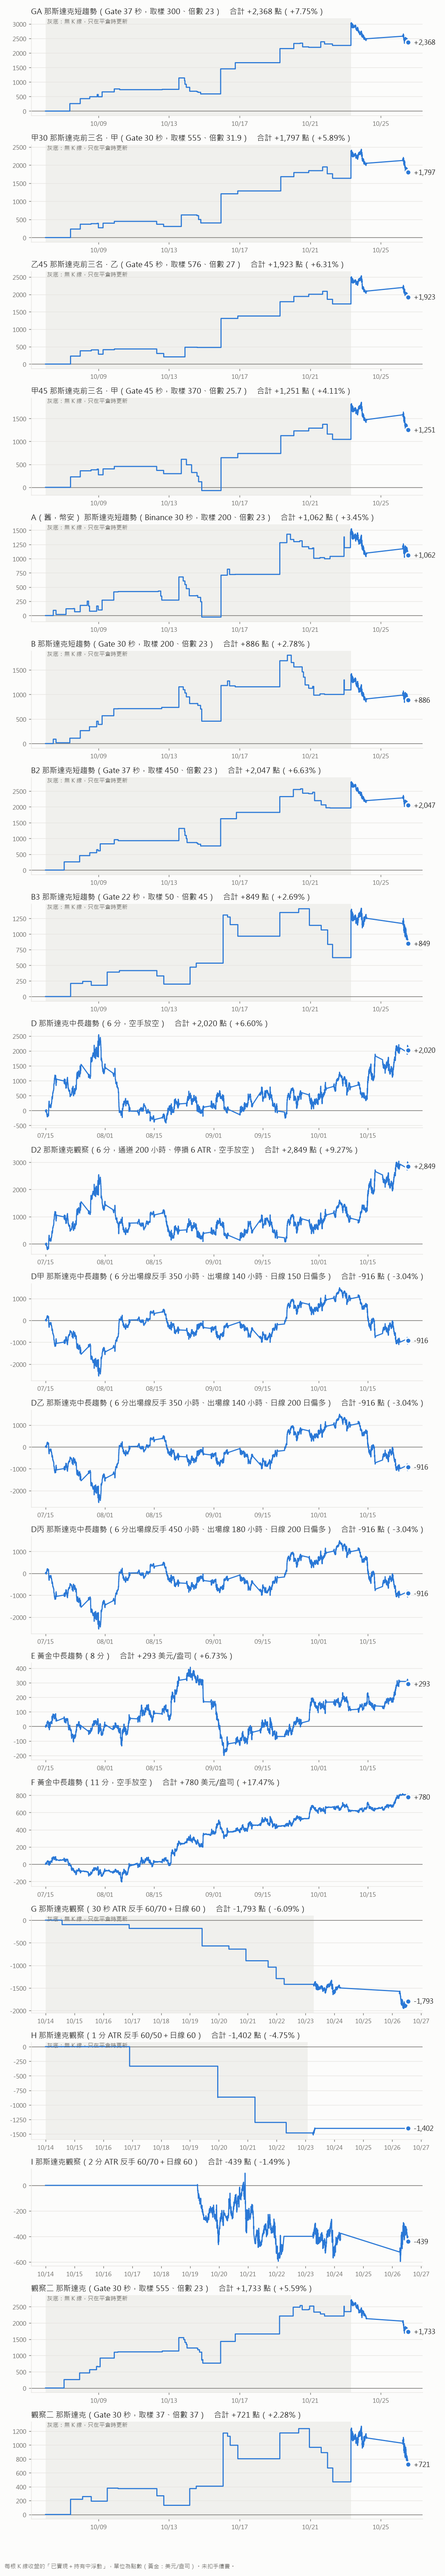
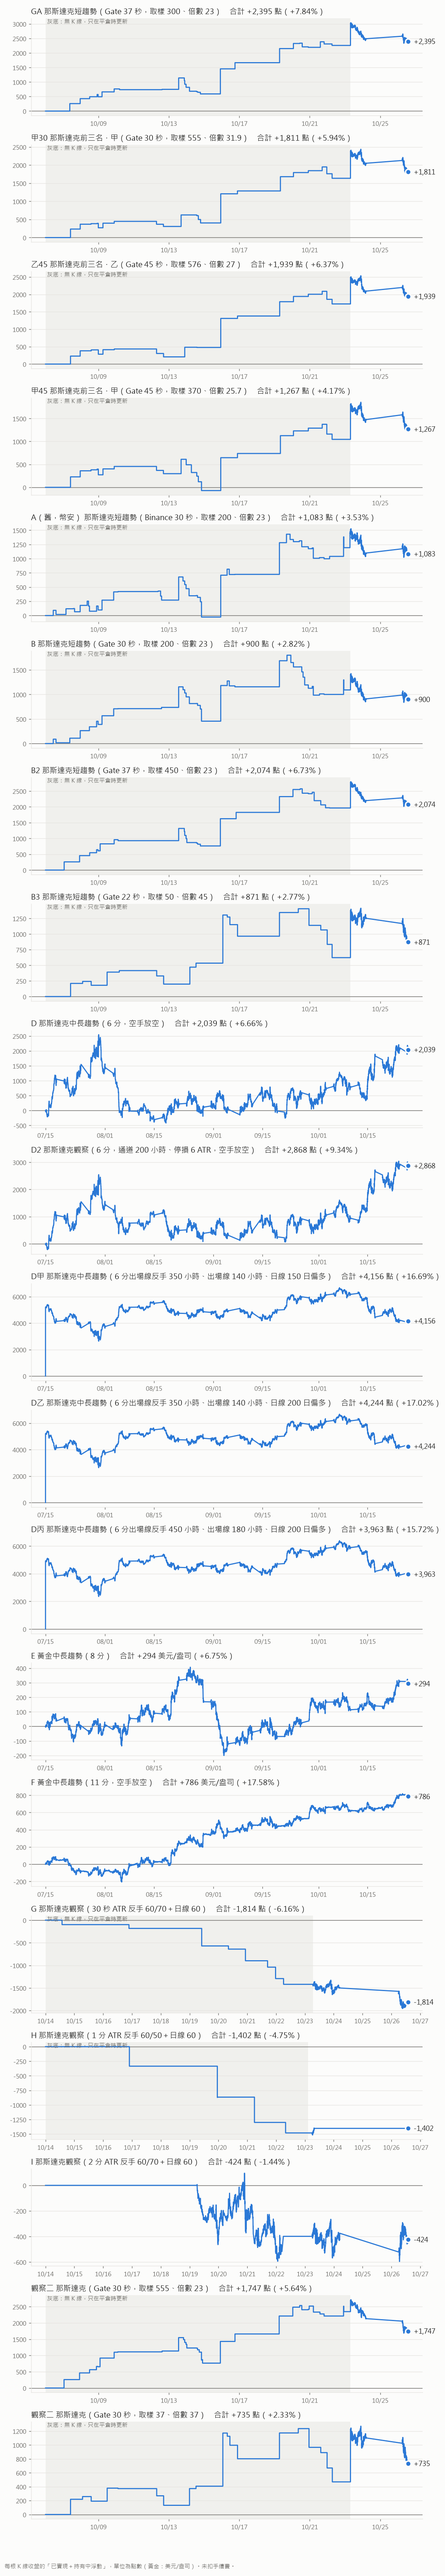
期貨趨勢 v1.29.2：D 甲乙丙日線改單一月份合約、起算改真正進場價
- 日線：連續月 NQ=F 沒有換月調整，150 日均線比 TV 低約 370 點，D 甲 10/23 TV 已翻空網頁還抱多。網頁（DAILY7）與更新紀錄.py 改用跟 6 分 K 同一個單一月份合約的日線，10/22 均線 29,197 對 TV 29,230；D 甲 10/23 06:00 @29,136 翻空與 TV 一字不差，D 乙、D 丙續抱多同 TV。G、H、I 仍用連續月。
- 起算持有：7/15 當天價 30,116 讓舊多單顯示假虧損，改用 TV 回測真正進場價（D 甲乙 4/06 @24,936、D 丙 4/08 @25,217），備註寫明。
- 紀錄補 D 甲 10/23 平多→開空 一筆（已平倉 +4,200 點，TV +4,201）。

diff --git a/index.html b/index.html
@@ -3,7 +3,7 @@
 <head>
 <meta charset="utf-8">
 <meta name="viewport" content="width=device-width,initial-scale=1,viewport-fit=cover">
-<title>期貨趨勢 v1.29.1</title>
+<title>期貨趨勢 v1.29.2</title>
 <meta name="description" content="那斯達克 30 秒 Range Filter（Binance 與 Gate）、那斯達克 6 分、黃金 8 分與黃金 11 分 Donchian 的即時趨勢訊號">
 <meta name="theme-color" content="#0b0e14">
 <meta name="apple-mobile-web-app-capable" content="yes">
@@ -226,7 +226,7 @@ canvas{display:block;width:100%;height:100%;touch-action:pan-y;cursor:crosshair}
 
 <script>
 "use strict";
-const VERSION = "v1.29.1";   // v1.29.1：電腦版單格放大對中長趨勢、台指、黃金、觀察二失效（被分頁判斷取消）；那斯達克同步拆成秒級與 6 分兩組，短趨勢縮放不再把中長趨勢壓成兩三天。v1.29.0：中長趨勢加 D 甲／乙／丙（規則 7 出場線反手＋日線偏多，永遠在場內），明細與績效表加三組（紀錄代號 DA／DB／DC，7/15 起算），電腦版改 5 欄 × 3 列（第 5 欄）。v1.28.1：Gate 逐筆請求排隊限速＋失敗等 11 秒重試（撞到每 10 秒 200 次限額，GA、B2、B3、前三名載不出來）；網頁標題補成同版號。v1.28.0：LINE 推播的格子（目前只有那斯達克 B2；台指 A/B 使用者說先不設，PANELS 標 push:true）外框內側加黃色細線閃爍。v1.27.0：GA 優化前三名（甲 30 秒 555/31.9、乙 45 秒 576/27、甲 45 秒 370/25.7）加成三格，電腦版改 4 欄 × 3 列（第 4 欄），商品名稱白字閃爍；明細與績效表加三組（紀錄代號 J30、Y45、J45，10/6 起算）；Gate 逐筆多合成 30、45 秒。v1.26.2： v1.26.2：舊幣安 A 加回交易明細與績效表（只讀正式紀錄）。v1.26.1：閃爍由 1.2 秒放慢成 2.4 秒、外框暗時亮度 15%→35%（使用者嫌刺眼）。
+const VERSION = "v1.29.2";   // v1.29.2：D 甲乙丙日線改用單一月份合約（對齊 TV 換月調整，D 甲 10/23 翻空），起算持有改用 TV 真正進場價。v1.29.1：電腦版單格放大對中長趨勢、台指、黃金、觀察二失效（被分頁判斷取消）；那斯達克同步拆成秒級與 6 分兩組，短趨勢縮放不再把中長趨勢壓成兩三天。v1.29.0：中長趨勢加 D 甲／乙／丙（規則 7 出場線反手＋日線偏多，永遠在場內），明細與績效表加三組（紀錄代號 DA／DB／DC，7/15 起算），電腦版改 5 欄 × 3 列（第 5 欄）。v1.28.1：Gate 逐筆請求排隊限速＋失敗等 11 秒重試（撞到每 10 秒 200 次限額，GA、B2、B3、前三名載不出來）；網頁標題補成同版號。v1.28.0：LINE 推播的格子（目前只有那斯達克 B2；台指 A/B 使用者說先不設，PANELS 標 push:true）外框內側加黃色細線閃爍。v1.27.0：GA 優化前三名（甲 30 秒 555/31.9、乙 45 秒 576/27、甲 45 秒 370/25.7）加成三格，電腦版改 4 欄 × 3 列（第 4 欄），商品名稱白字閃爍；明細與績效表加三組（紀錄代號 J30、Y45、J45，10/6 起算）；Gate 逐筆多合成 30、45 秒。v1.26.2： v1.26.2：舊幣安 A 加回交易明細與績效表（只讀正式紀錄）。v1.26.1：閃爍由 1.2 秒放慢成 2.4 秒、外框暗時亮度 15%→35%（使用者嫌刺眼）。
 //    // v1.26.0：A 格改 Gate 逐筆合成 37 秒 300/23（候選①），明細與績效表的 A 改讀紀錄代號 GA；畫面名稱改叫 GA；電腦版九格外框照部位閃爍（持多螢光紅、持空螢光綠、空手無框），取代 v1.25.1 的固定藍框。所有閃爍同步。v1.25.1：圖表標題 A 改回黃字不閃爍；B2、觀察二 555/23、D2 外框螢光藍細線閃爍。v1.25.0：電腦版（同一份程式，寬 1280px 以上或手動選「電腦」）：指定 9 格同一頁三欄三列、一樣大、不捲動；同市場格子同步顯示範圍（那斯達克、台指、恆生）；表格線螢光藍；持多／持空後面放合計（已平倉＋浮動）。v1.24.0：v1.23.6：圖表標題的觀察二 37/37 也改紅字閃爍；v1.23.5：圖表標題的 A、B2、D2、觀察二 555/23 改紅字閃爍；v1.23.4：績效表與明細的 A、B2、D2、觀察二 555/23 改紅字閃爍（只動透明度，不加光暈）；v1.23.3：明細的台指 A/B、觀察二台指拿掉閃爍；v1.23.2：台指四組從 10/21 起重新記錄觀察；v1.23.1：台指 A/B、觀察二可讀 台指/tv_hist.json 補 10/06 起的舊段明細；v1.23.0：台指四格用網頁自己的策略（參數不變）、資料只用 TradingView 台指期（1 秒 K 合成各格週期），不再照抄 848、不再讀期交所；v1.22.1：台指 K 線不再等期交所盤後檔，沒有連續月 30 秒時改用 TradingView 1 秒 K 合成；v1.22.0：台指 K 線改讀 TradingView 連續月 30 秒（轉接站 /tw，收到 200 根起生效，之前照舊）；v1.21.0：台指四組的持倉、明細、績效表改照 TradingView 848（連續月）交易清單（台指/tv_signals.json）；v1.20.4：台指換月窗恢復只看盤後（TX_HOLD_ROLL＝true）；v1.20.3：台指換月窗改即時優先；v1.20.2：明細視窗標題「交易明細」→「明細」；v1.20.1：標題列「中長趨勢」→「趨勢」、「交易明細」→「明細」；v1.20.0：交易明細加「績效表」分頁
 const $ = id => document.getElementById(id);
 const FAPI = "https://fapi.binance.com/fapi/v1";
@@ -425,7 +425,7 @@ function calcDon7(B, P){
     else if(r === 1){ if(le[i] != null && c < le[i]) r = -1; }
     else if(he[i] != null && c > he[i]) r = 1;
     raw[i] = r;
-    pos[i] = r === 1 || dailyUp(B[i].t, P.maLen) ? 1 : -1;
+    pos[i] = r === 1 || dailyUp(B[i].t, P.maLen, DAILY7) ? 1 : -1;
   }
   const all = [];
   for(let i = 1; i < n; i++) if(pos[i] !== pos[i-1]) all.push({i, d:pos[i]});
@@ -521,21 +521,28 @@ function tradeDay(t){   // 美東 18:00 之後算下一個交易日
   if(!v){ v = ETD.format(new Date(key * 3600000)); TDC.set(key, v); }
   return v;
 }
-function dailyUp(t, len){
-  if(!DAILY) return true;
+function dailyUp(t, len, D = DAILY){
+  if(!D) return true;
   const td = tradeDay(t);
-  let lo = 0, hi = DAILY.d.length - 1, j = -1;
-  while(lo <= hi){ const md = (lo + hi) >> 1; if(DAILY.d[md] < td){ j = md; lo = md + 1; } else hi = md - 1; }
+  let lo = 0, hi = D.d.length - 1, j = -1;
+  while(lo <= hi){ const md = (lo + hi) >> 1; if(D.d[md] < td){ j = md; lo = md + 1; } else hi = md - 1; }
   if(j < len - 1) return true;
-  let sum = 0; for(let k = j - len + 1; k <= j; k++) sum += DAILY.c[k];
-  return DAILY.c[j] / (sum / len) >= 1;
+  let sum = 0; for(let k = j - len + 1; k <= j; k++) sum += D.c[k];
+  return D.c[j] / (sum / len) >= 1;
 }
+/* v1.29.2 D 甲乙丙的日線改用跟 6 分 K 同一個單一月份合約（換月一起換）。連續月 NQ=F 沒有換月調整，150 日均線比 TV（依合約變更調整）
+   低約 370 點，10/23 TV 已翻空、網頁還抱多；單一月份合約 10/22 均線 29,197 對 TV 29,230，D 甲 10/23 06:00 @29,136 翻空與 TV 一字不差。
+   G、H、I 仍用連續月（DAILY）。 */
+let DAILY7 = null;
 async function loadDaily(){
-  const j = await jget(NQ_RELAY + "?iv=1d");
-  if(j.error) throw new Error(j.error);
   // Yahoo 日線時間戳在交易日當天（美東 00:00 前後），+18 小時落在同一交易日的 18:00 之前
-  DAILY = {d: j.bars.map(b => tradeDay(b[0] + 12 * 3600000)), c: j.bars.map(b => b[4])};
+  const toD = j => { if(j.error) throw new Error(j.error); return {d: j.bars.map(b => tradeDay(b[0] + 12 * 3600000)), c: j.bars.map(b => b[4])}; };
+  const [a, b] = await Promise.allSettled([jget(NQ_RELAY + "?iv=1d"), jget(NQ_RELAY + "?sym=" + encodeURIComponent(nqContract().sym) + "&iv=1d")]);
+  if(a.status === "fulfilled") DAILY = toD(a.value);
+  if(b.status === "fulfilled") DAILY7 = toD(b.value);
   PANELS.forEach(p => { if(p.kind === "atr" || p.r7) p.dirty = true; });
+  if(a.status === "rejected") throw a.reason;
+  if(b.status === "rejected") throw b.reason;
 }
 
 /* v1.8.0：使用者 2026-10-13 要求 C、E 格「空手改放空」——原規則（只做多）空手的時段一律持空、永遠在場。
@@ -1058,7 +1065,7 @@ function recompute(p){
   }
   p.bars = B;
   const done = B.slice(0, p.done);
-  if((p.kind === "atr" || p.r7) && !DAILY) return;
+  if((p.kind === "atr" && !DAILY) || (p.r7 && !DAILY7)) return;
   p.R = p.kind === "rf" ? calcRF(done, p.P) : p.kind === "atr" ? calcAtrRev(done, p.P) : p.r7 ? calcDon7(done, p.P) : p.goldExact ? calcDonG(done, p.P) : calcDon(done, p.P);
   if(p.flatShort) toFlatShort(p.R);
   p.ready = true;
@@ -1199,7 +1206,7 @@ function renderInfo(p){
     if(d > 0){ trigK = "翻空線"; trig = fmtP(p, R.ls[p.done - 1]); }
     else if(d < 0){ trigK = e.side < 0 ? "翻多線" : "翻多線（日線在均線上，不做空）"; trig = fmtP(p, R.ss[p.done - 1]); }
   }else if(p.r7){
-    const n = done.length, d = R.raw[n - 1], up = dailyUp(done[n - 1].t, p.P.maLen);
+    const n = done.length, d = R.raw[n - 1], up = dailyUp(done[n - 1].t, p.P.maLen, DAILY7);
     const hi = (m) => Math.max(...done.slice(n - m).map(b => b.h)), lo = (m) => Math.min(...done.slice(n - m).map(b => b.l));
     if(d > 0){ trigK = up ? "出場線（日線偏多，跌破不翻空）" : "翻空線"; trig = fmtP(p, lo(R.exitN)); }
     else if(d < 0){ trigK = e.side > 0 ? "翻多線（日線偏多，目前做多）" : "翻多線"; trig = fmtP(p, hi(R.exitN)); }

diff --git a/實際紀錄/更新紀錄.py b/實際紀錄/更新紀錄.py
@@ -693,8 +693,11 @@ if __name__ == "__main__":
     added += update("R2", BR2, posR2, wR2, act[1]); LAST["R2"] = (BR2[-1][4], BR2[-1][0], None)
 
     print("算 D 甲／乙／丙：出場線反手＋日線偏多（同 C 的 6 分 K）")
+    # 2026-10-26 v1.29.2：日線改用跟 6 分 K 同一個單一月份合約（同網頁 DAILY7）。連續月 NQ=F 沒換月調整，均線比 TV 低約 370 點，
+    # D 甲 10/23 TV 已翻空這裡還抱多；換成單一月份合約後 10/23 06:00 @29,136 翻空與 TV 一字不差
+    bd = yahoo(act[0], "1d", "2y"); DAILY7 = ([trade_day(t + 12 * 3600000) for t, *_ in bd], [x[4] for x in bd])
     for k, lk, ma in (("DA", 350, 150), ("DB", 350, 200), ("DC", 450, 200)):
-        posR7, wR7 = calc_r7(BC, lk, 6, 2.5, ma, DAILY)
+        posR7, wR7 = calc_r7(BC, lk, 6, 2.5, ma, DAILY7)
         added += update(k, BC, posR7, wR7, act[1]); LAST[k] = LAST["C"]
 
     BARS = {"A": BA, "G": BG, "B": BB, "C": BC, "D": BD, "E": BE, "R30": BA, "R1": BB, "R2": BR2, "C2": BC, "G2": BG2, "G3": BG3, "O1": BG, "O2": BG, "GA": BG2, "J30": BG, "Y45": BG45, "J45": BG45, "DA": BC, "DB": BC, "DC": BC}
